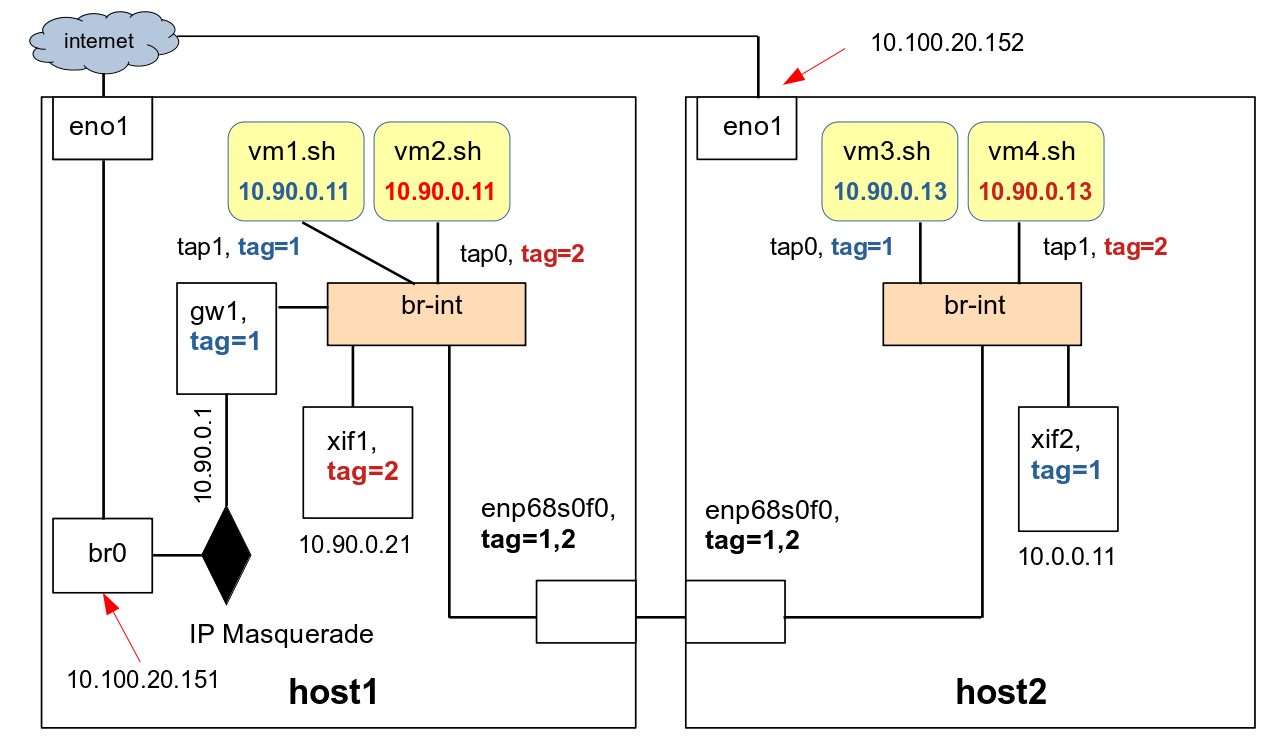
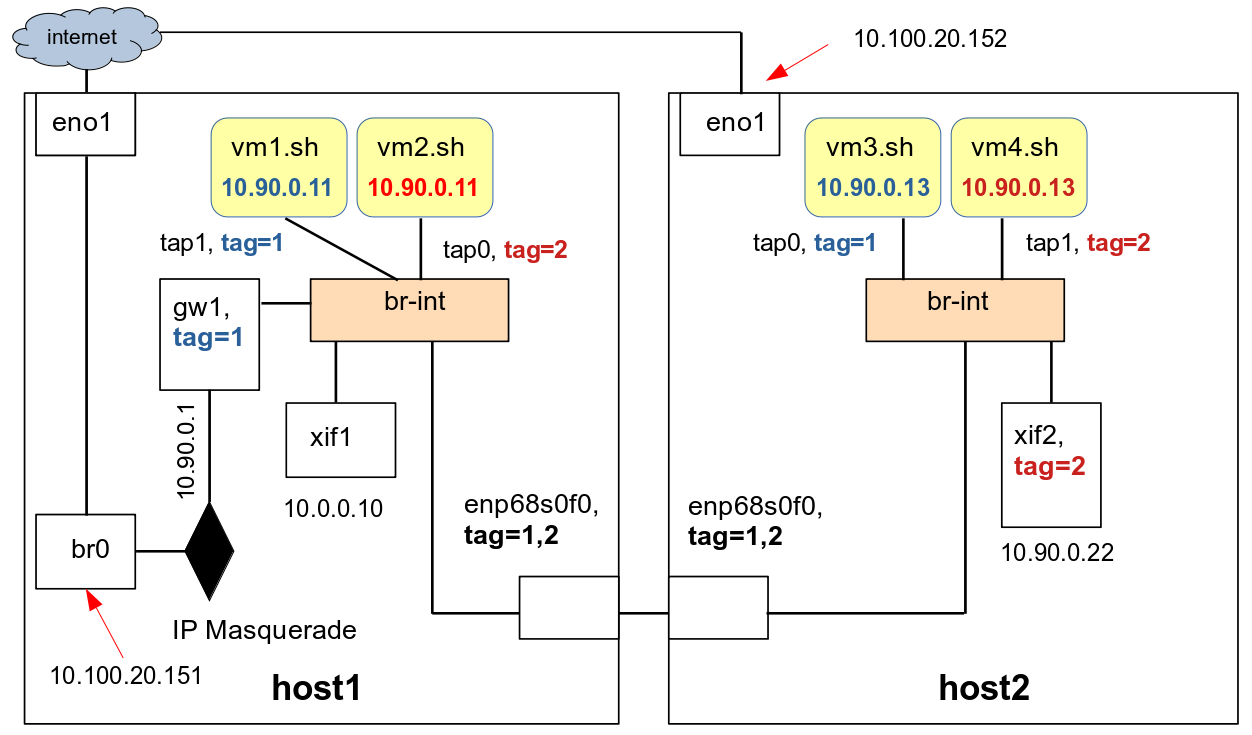
upp13

diff --git a/README.md b/README.md
@@ -1620,6 +1620,7 @@ $
 <p><p> 
 การกำหนดค่าวีแลนแทกบนวีเอ็มพอร์ตโดยตรง
 
+-- การกำหนดค่าวีแลนด์เสมือนบนเครื่อง host1
 <pre>
 On host1: 
 $ sudo ovs-vsctl show
@@ -1726,6 +1727,134 @@ PING 10.90.0.12 (10.90.0.12) 56(84) bytes of data.
 1 packets transmitted, 0 received, 100% packet loss, time 0ms
 $
 </pre>
+
+<pre>
+On any host in 10.100.20.0/24 subnet: 
+$ 
+$ xtightvncviewer 10.100.20.151:12 &
+$
+</pre>
+
+<pre>
+On vm2: 
+$ cat /etc/netplan/00-installer-config.yaml | grep 10.90.0.12
+        - 10.90.0.12/24
+$ sudo sed -i "s/10.90.0.12/10.90.0.11/g" /etc/netplan/00-installer-config.yaml
+$ cat /etc/netplan/00-installer-config.yaml | grep 10.90.0.11
+        - 10.90.0.11/24
+$ sudo netplan apply
+</pre>
+
+<pre>
+On host1: 
+$ ssh openstack@10.90.0.11 hostname
+vm1
+$ 
+</pre>
+
+-- การกำหนดค่าวีแลนด์เสมือนบนเครื่อง host2
+<pre>
+On host2: 
+$ sudo ovs-vsctl set port xif2 tag=2
+$ sudo ovs-vsctl set port tap0 tag=1
+$ sudo ovs-vsctl set port tap1 tag=2
+$ sudo ovs-vsctl show
+...
+    Bridge br-int
+        Port tap1
+            tag: 2
+            Interface tap1
+        Port xif2
+            tag: 2
+            Interface xif2
+                type: internal
+        Port br-int
+            Interface br-int
+                type: internal
+        Port tap0
+            tag: 1
+            Interface tap0
+        Port enp68s0f0
+            Interface enp68s0f0
+...
+$ 
+</pre>
+
+<pre>
+On host2: 
+$ route -n
+Kernel IP routing table
+Destination     Gateway         Genmask         Flags Metric Ref    Use Iface
+0.0.0.0         10.100.20.1     0.0.0.0         UG    0      0        0 br0
+10.90.0.0       0.0.0.0         255.255.255.0   U     0      0        0 xif2
+10.100.20.0     0.0.0.0         255.255.255.0   U     0      0        0 br0
+$
+$ ping -c 1 10.90.0.13
+PING 10.90.0.13 (10.90.0.13) 56(84) bytes of data.
+^C
+--- 10.90.0.13 ping statistics ---
+1 packets transmitted, 0 received, 100% packet loss, time 0ms
+$ ping -c 1 10.90.0.14
+PING 10.90.0.14 (10.90.0.14) 56(84) bytes of data.
+64 bytes from 10.90.0.14: icmp_seq=1 ttl=64 time=0.920 ms
+
+--- 10.90.0.14 ping statistics ---
+1 packets transmitted, 1 received, 0% packet loss, time 0ms
+rtt min/avg/max/mdev = 0.920/0.920/0.920/0.000 ms
+$ ping -c 1 10.90.0.11
+PING 10.90.0.11 (10.90.0.11) 56(84) bytes of data.
+64 bytes from 10.90.0.11: icmp_seq=1 ttl=64 time=1.62 ms
+
+--- 10.90.0.11 ping statistics ---
+1 packets transmitted, 1 received, 0% packet loss, time 0ms
+rtt min/avg/max/mdev = 1.615/1.615/1.615/0.000 ms
+$
+</pre>
+
+<pre>
+On host1: 
+$ $ route -n
+Kernel IP routing table
+Destination     Gateway         Genmask         Flags Metric Ref    Use Iface
+0.0.0.0         10.100.20.1     0.0.0.0         UG    0      0        0 br0
+10.0.0.0        0.0.0.0         255.255.255.0   U     0      0        0 xif1
+10.90.0.0       0.0.0.0         255.255.255.0   U     0      0        0 gw1
+10.100.20.0     0.0.0.0         255.255.255.0   U     0      0        0 br0
+$
+$ ping -c 1 10.90.0.13
+PING 10.90.0.13 (10.90.0.13) 56(84) bytes of data.
+64 bytes from 10.90.0.13: icmp_seq=1 ttl=64 time=1.67 ms
+
+--- 10.90.0.13 ping statistics ---
+1 packets transmitted, 1 received, 0% packet loss, time 0ms
+rtt min/avg/max/mdev = 1.673/1.673/1.673/0.000 ms
+$ ping -c 1 10.90.0.14
+PING 10.90.0.14 (10.90.0.14) 56(84) bytes of data.
+^C
+--- 10.90.0.14 ping statistics ---
+1 packets transmitted, 0 received, 100% packet loss, time 0ms
+$
+</pre>
+
+<pre>
+On any host in 10.100.20.0/24 subnet: 
+$ 
+$ xtightvncviewer 10.100.20.152:14 &
+$
+</pre>
+
+<pre>
+On vm4: 
+$ 
+$ cat /etc/netplan/00-installer-config.yaml | grep 10.90.0.14
+        - 10.90.0.14/24
+$ sudo sed -i "s/10.90.0.14/10.90.0.13/g" /etc/netplan/00-installer-config.yaml
+$ cat /etc/netplan/00-installer-config.yaml | grep 10.90.0.13
+        - 10.90.0.13/24
+$ sudo netplan apply
+</pre>
+
+-- การกำหนดค่าแทกบน trunk ports
 
 การกำหนดค่าวีแลนแทกโดยใช้เฟกบริดจ์ 
 
